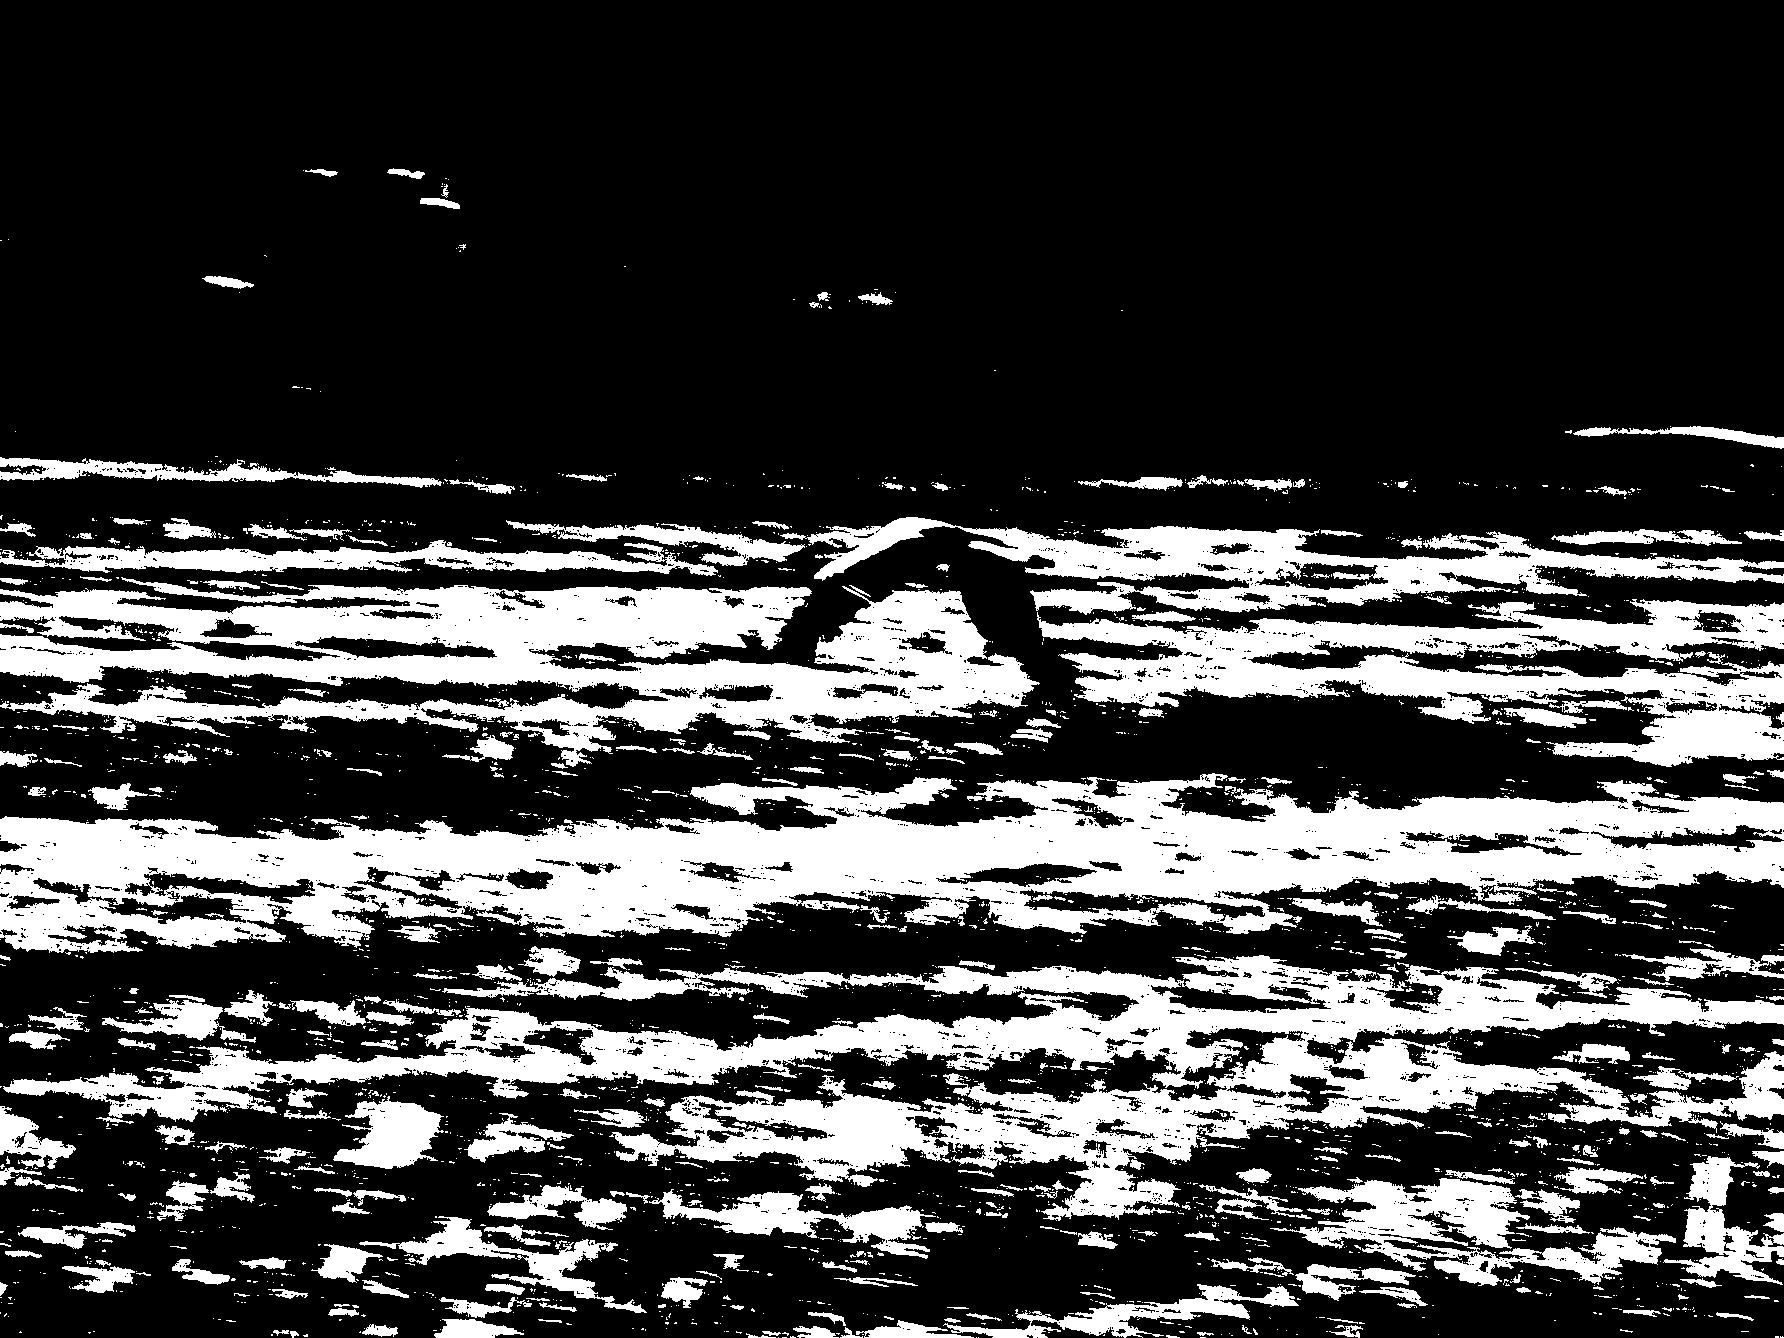
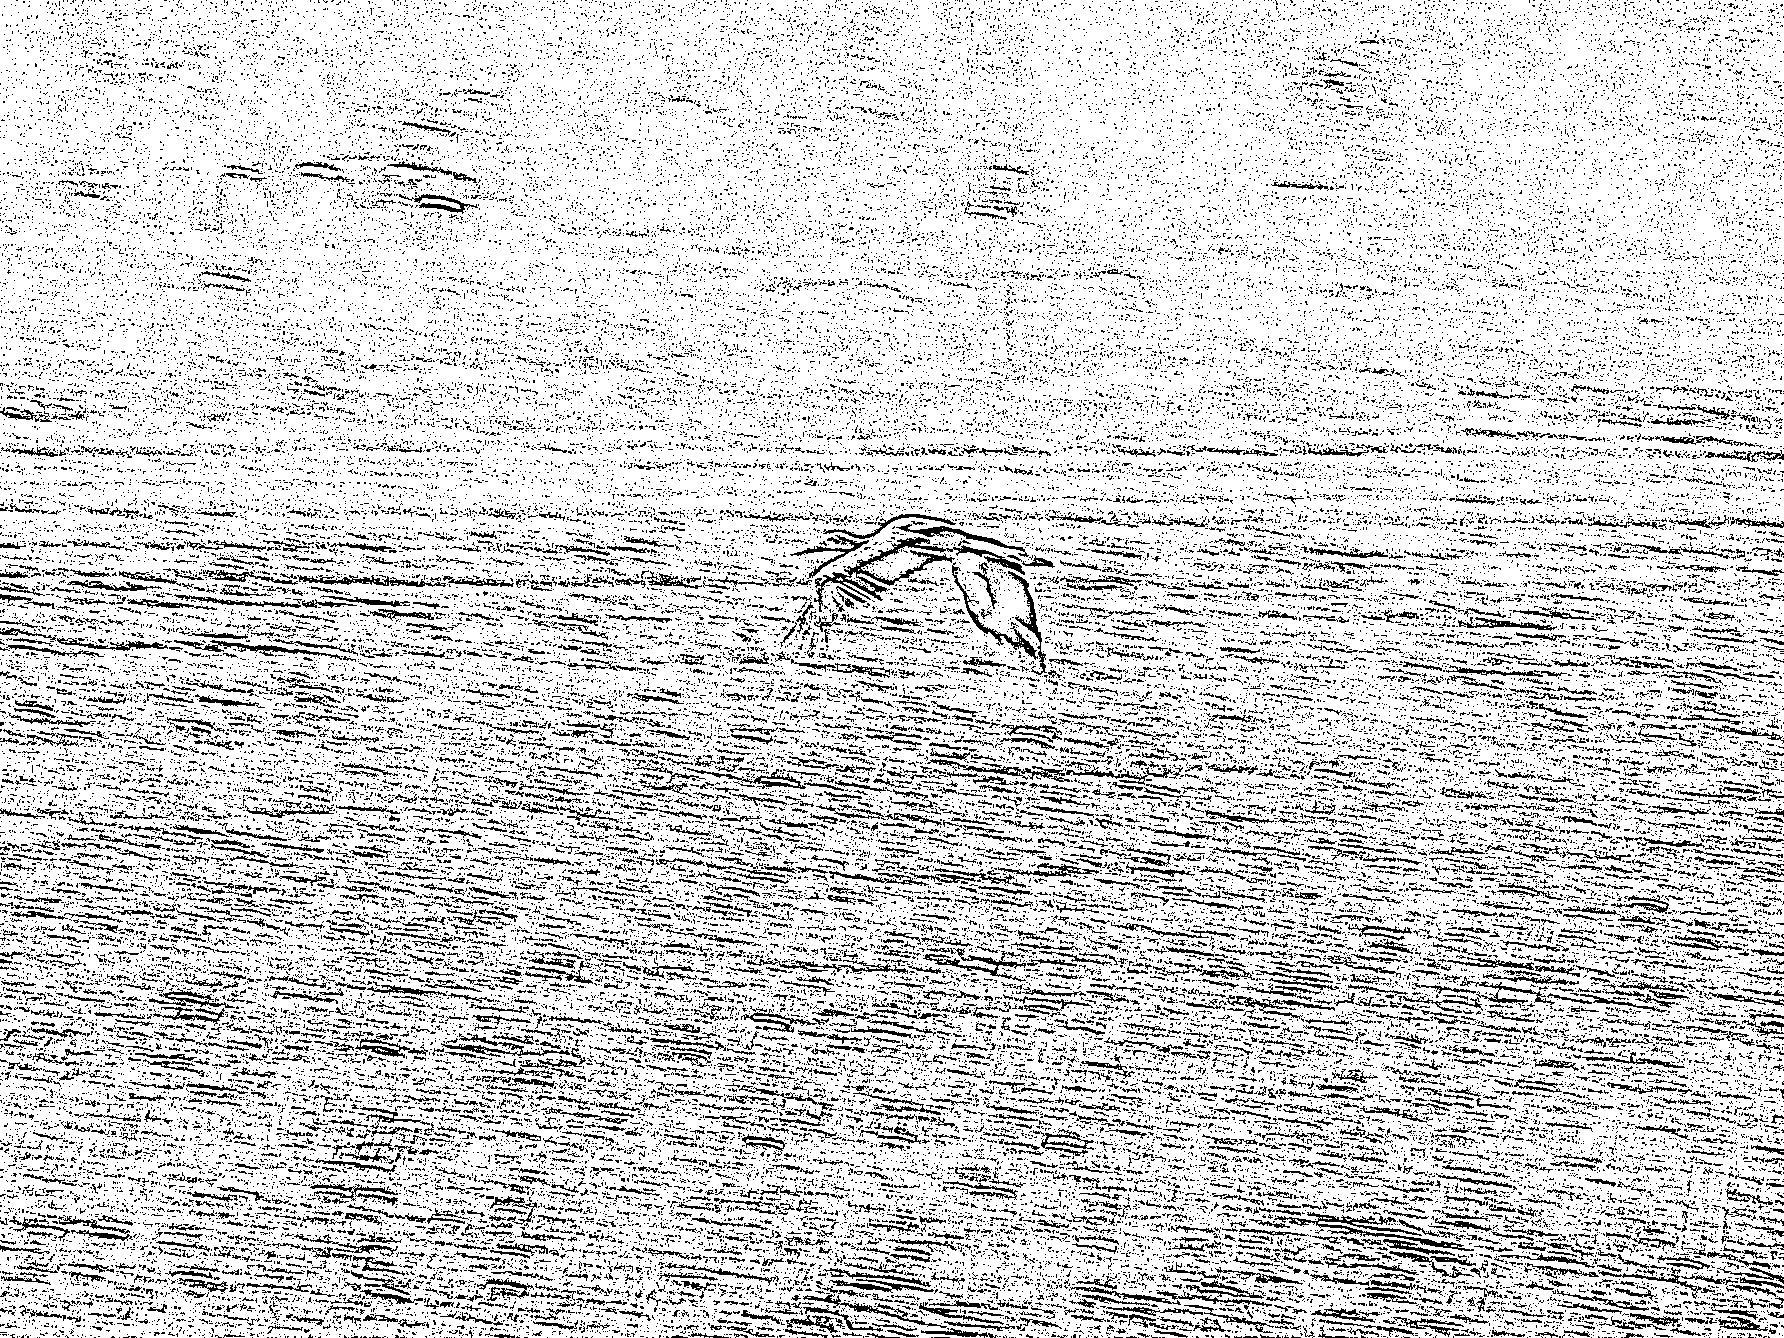
adaptive threshold

diff --git a/Lab4/main.py b/Lab4/main.py
@@ -5,8 +5,8 @@ def apply_contouring(image):
     return cv2.Canny(image, 100, 200)
 
 def apply_threshold(image):
-    _, thresh = cv2.threshold(image, 128, 255, cv2.THRESH_BINARY)
-    return thresh
+     return cv2.adaptiveThreshold(image, 255, cv2.ADAPTIVE_THRESH_GAUSSIAN_C,
+                                 cv2.THRESH_BINARY, 11, 2)
 
 def remove_artifacts(image):
     kernel = np.ones((2,2), np.uint8)
